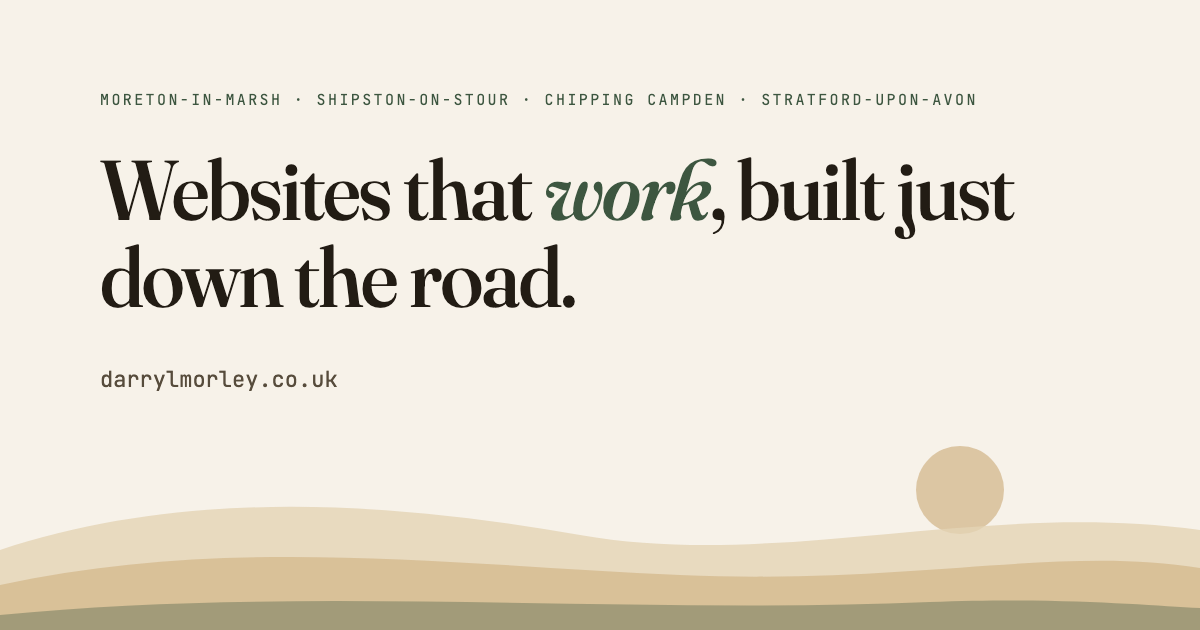
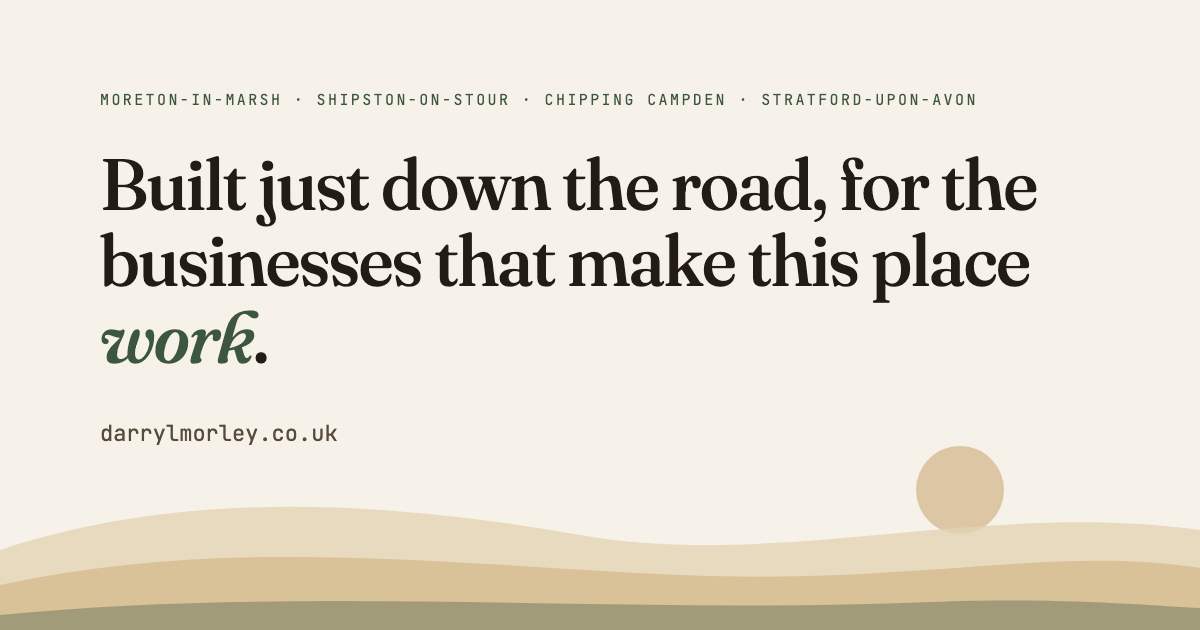
copy: new hero headline, sync og image

Changed region(s): [[0.0617, 0.2413, 0.8633, 0.6333], [0.0925, 0.6635, 0.2775, 0.7238]]

diff --git a/components/hero.tsx b/components/hero.tsx
@@ -7,9 +7,9 @@ export function Hero() {
         <p className="rise rise-1 font-mono text-xs tracking-[0.2em] text-moss uppercase">
           {site.towns.join("  ·  ")}
         </p>
-        <h1 className="rise rise-2 mt-6 max-w-3xl font-display text-5xl leading-[1.02] font-medium tracking-tight sm:text-7xl lg:text-8xl">
-          Websites that <em className="text-moss">work</em>, built just down
-          the road.
+        <h1 className="rise rise-2 mt-6 max-w-4xl font-display text-5xl leading-[1.05] font-medium tracking-tight sm:text-7xl">
+          Built just down the road, for the businesses that make this place{" "}
+          <em className="text-moss">work</em>.
         </h1>
         <p className="rise rise-3 mt-7 max-w-xl text-lg leading-relaxed text-ink-soft">
           I&rsquo;m Darryl, a web developer in the {site.region}. I build fast
